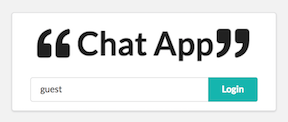
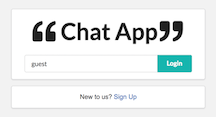
cleaned up login and added more better prompt

diff --git a/src/components/Auth-Form.js b/src/components/Auth-Form.js
@@ -19,15 +19,24 @@ function AuthForm(props) {
                 {displayName}
               </button>
             </div>
-            {error &&
-              error.response && (
-                <div className="login-error-msg">
-                  <div>{error.response.data}</div>
-                  <NavLink to={`/${altPath}`}>Try {altPath}</NavLink>
-                </div>
-              )}
+            {error && error.response && displayName === "Login" ? (
+              <div className="login-error-msg">{error.response.data}</div>
+            ) : null}
           </div>
         </form>
+        <div className="ui segment login">
+          {displayName === "Login" ? (
+            <div>
+              New to us?
+              <NavLink to={`/${altPath}`}> Sign Up</NavLink>
+            </div>
+          ) : (
+            <div>
+              Already have a user?
+              <NavLink to={`/${altPath}`}> Login </NavLink>
+            </div>
+          )}
+        </div>
       </div>
     </div>
   );

diff --git a/src/components/Main.js b/src/components/Main.js
@@ -13,8 +13,8 @@ class Main extends Component {
   render() {
     return (
       <div className="app-layout ">
-        <Sidebar />
-        <main className="ui segment">
+        <Sidebar className="ui segment app-body" />
+        <main className="ui segment app-body">
           <Navbar />
           <Switch>
             <Route path="/new-channel" component={NewChannelEntry} />

diff --git a/public/style.css b/public/style.css
@@ -19,7 +19,7 @@ li {
 }
 
 .login-error-msg {
-  padding: 1em;
+  padding: 1em 0 0 0;
 }
 
 .grid {
@@ -39,9 +39,12 @@ li {
   overflow: hidden;
 }
 
-.ui.segment {
-  margin: 0 0.5em;
-  max-width: 82vw;
+.ui.segment:first-child {
+  margin: 0;
+}
+
+.ui.segment.app-body {
+  margin: 0 0 0 0.5em;
 }
 
 .message-bubble {
